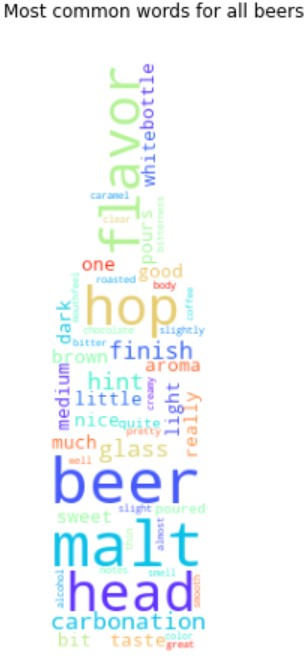
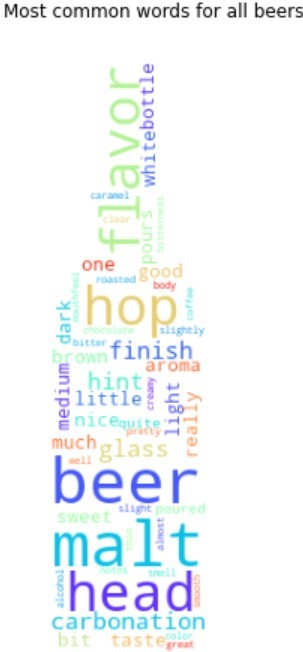
plis again

Changed region(s): [[0.1485, 0.092, 0.6832, 1.0], [0.1782, 0.0, 1.0, 0.0307], [0.0594, 0.0, 0.1485, 0.0307]]

diff --git a/index.md b/index.md
@@ -36,9 +36,9 @@ Again, we see what was expected: a peak around December. Since this beer is prob
 Once the beers that display a trend around december are selected, we want to know which ones are overall appreciated. Relying solely on the rating isn't enough: some people give strict ratings but very positive written reviews and vice-versa. To remedy to this issue, natural language processing (NLP) methods were used. We could then qualify the reviews based on if they were considered positive or negative. By simply counting how much a word appears in the reviews, we can find the most prevalent words to describe categories of beers. First of all, the overall most used words to describe beers were found. To be able to capture the most common words for the winter beers, the most common words overall were removed.
 
 <p align="middle">
- <img src="images/all_WC.jpg" height = "350" />
- <img src="images/winter_WC.jpg" height = "350" />
- <img src="images/summer_WC.jpg" height = "350" />
+ <img src="images/all_WC.jpg" height = "500" />
+ <img src="images/winter_WC.jpg" height = "500" />
+ <img src="images/summer_WC.jpg" height = "500" />
 </p>
 
 > insert word cloud with positive vs negative words for winter beers
